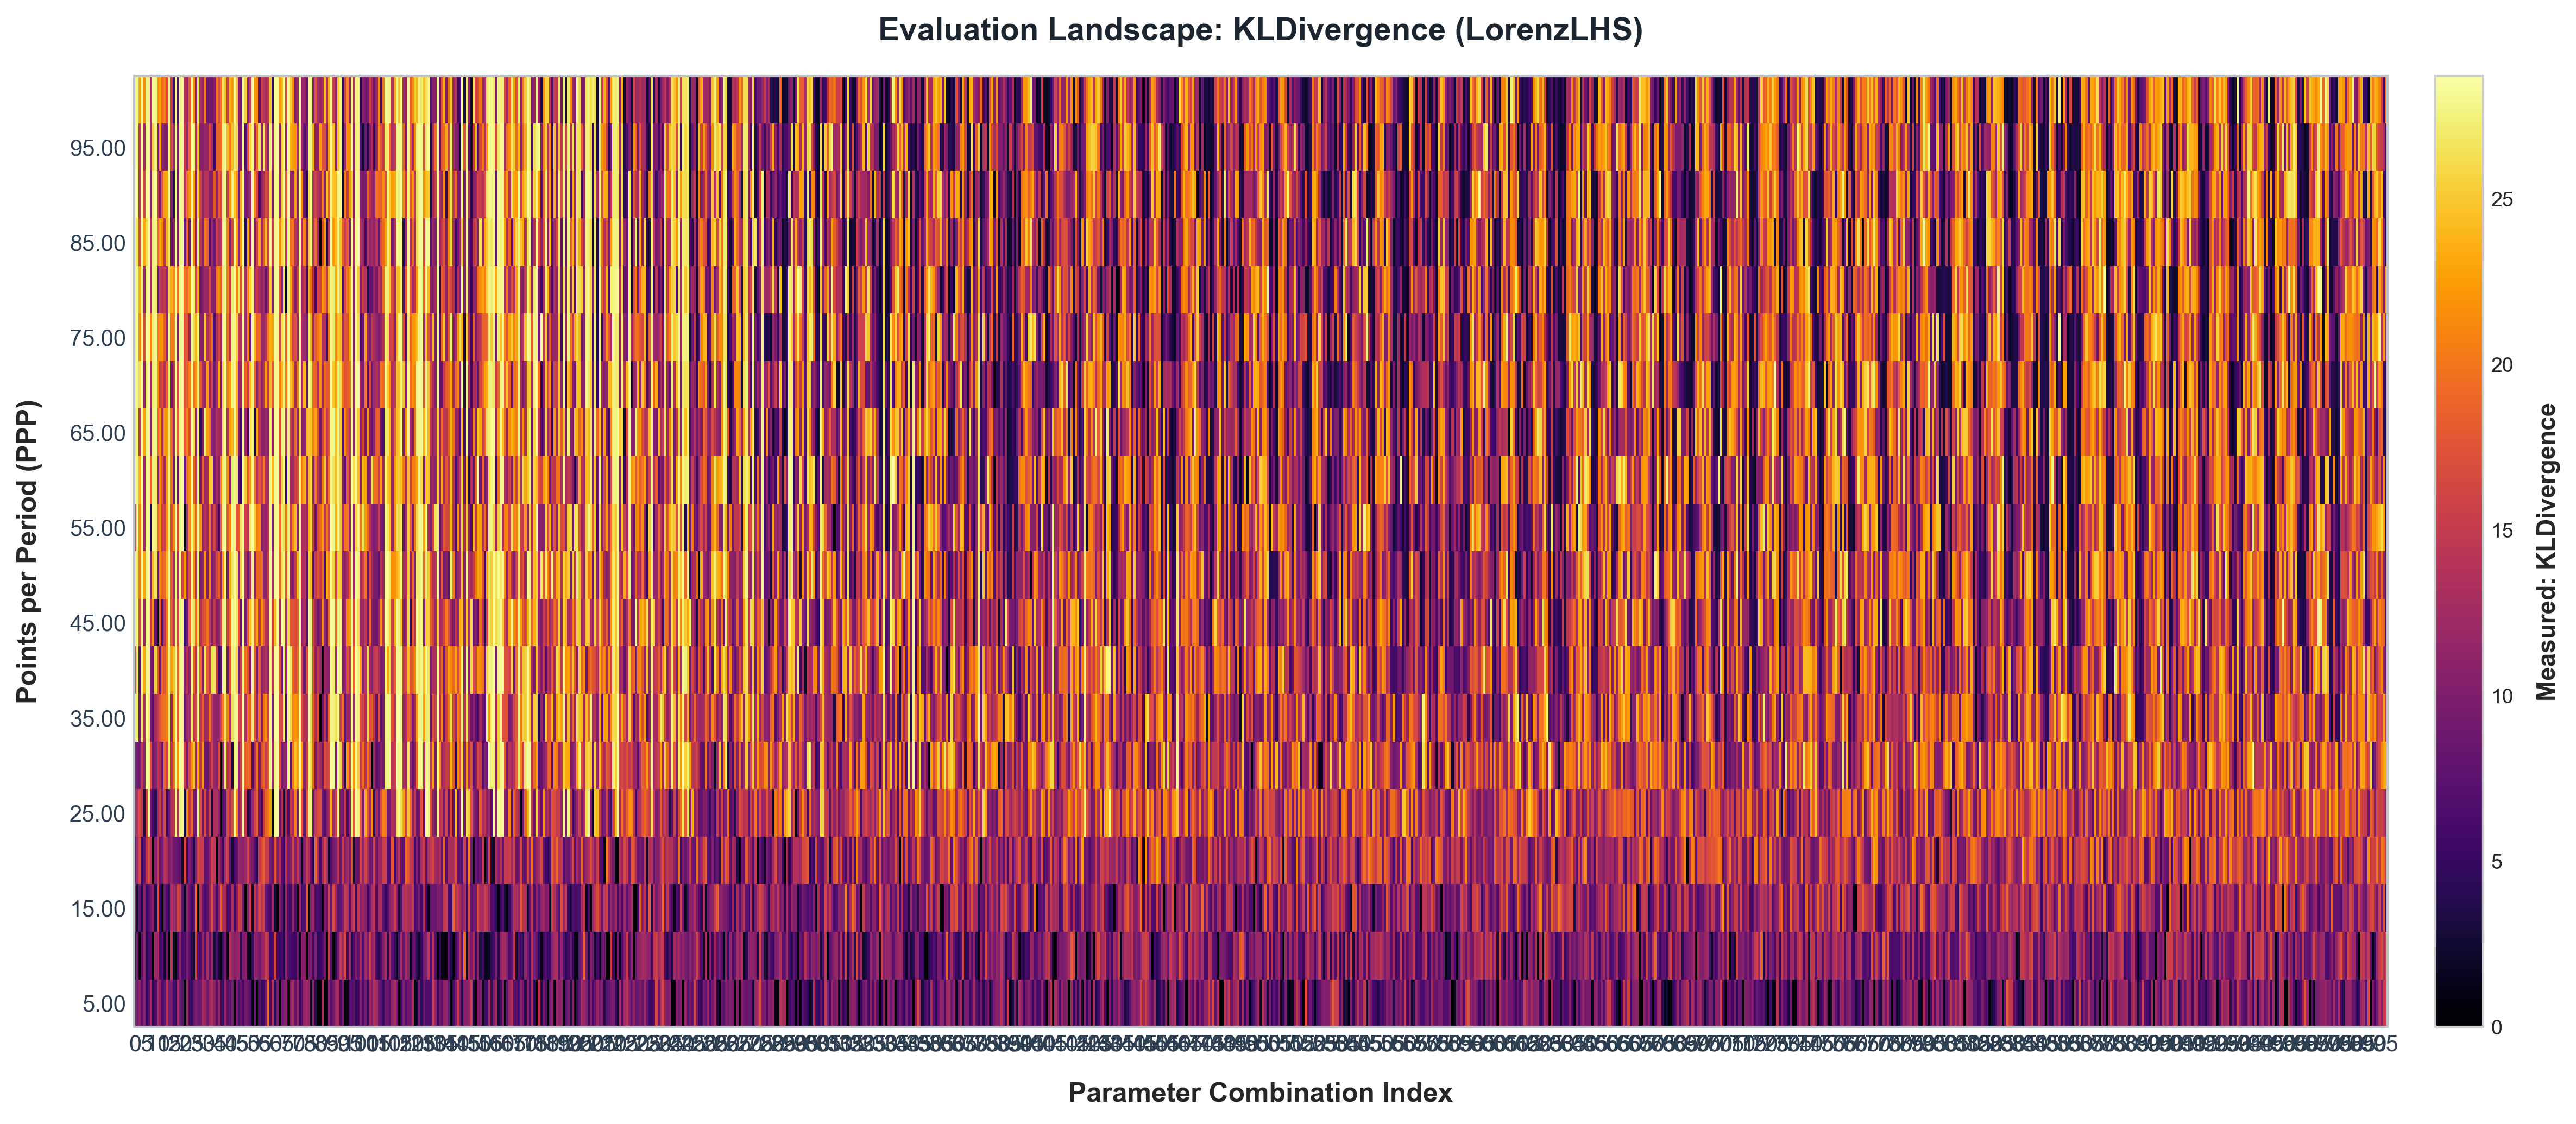
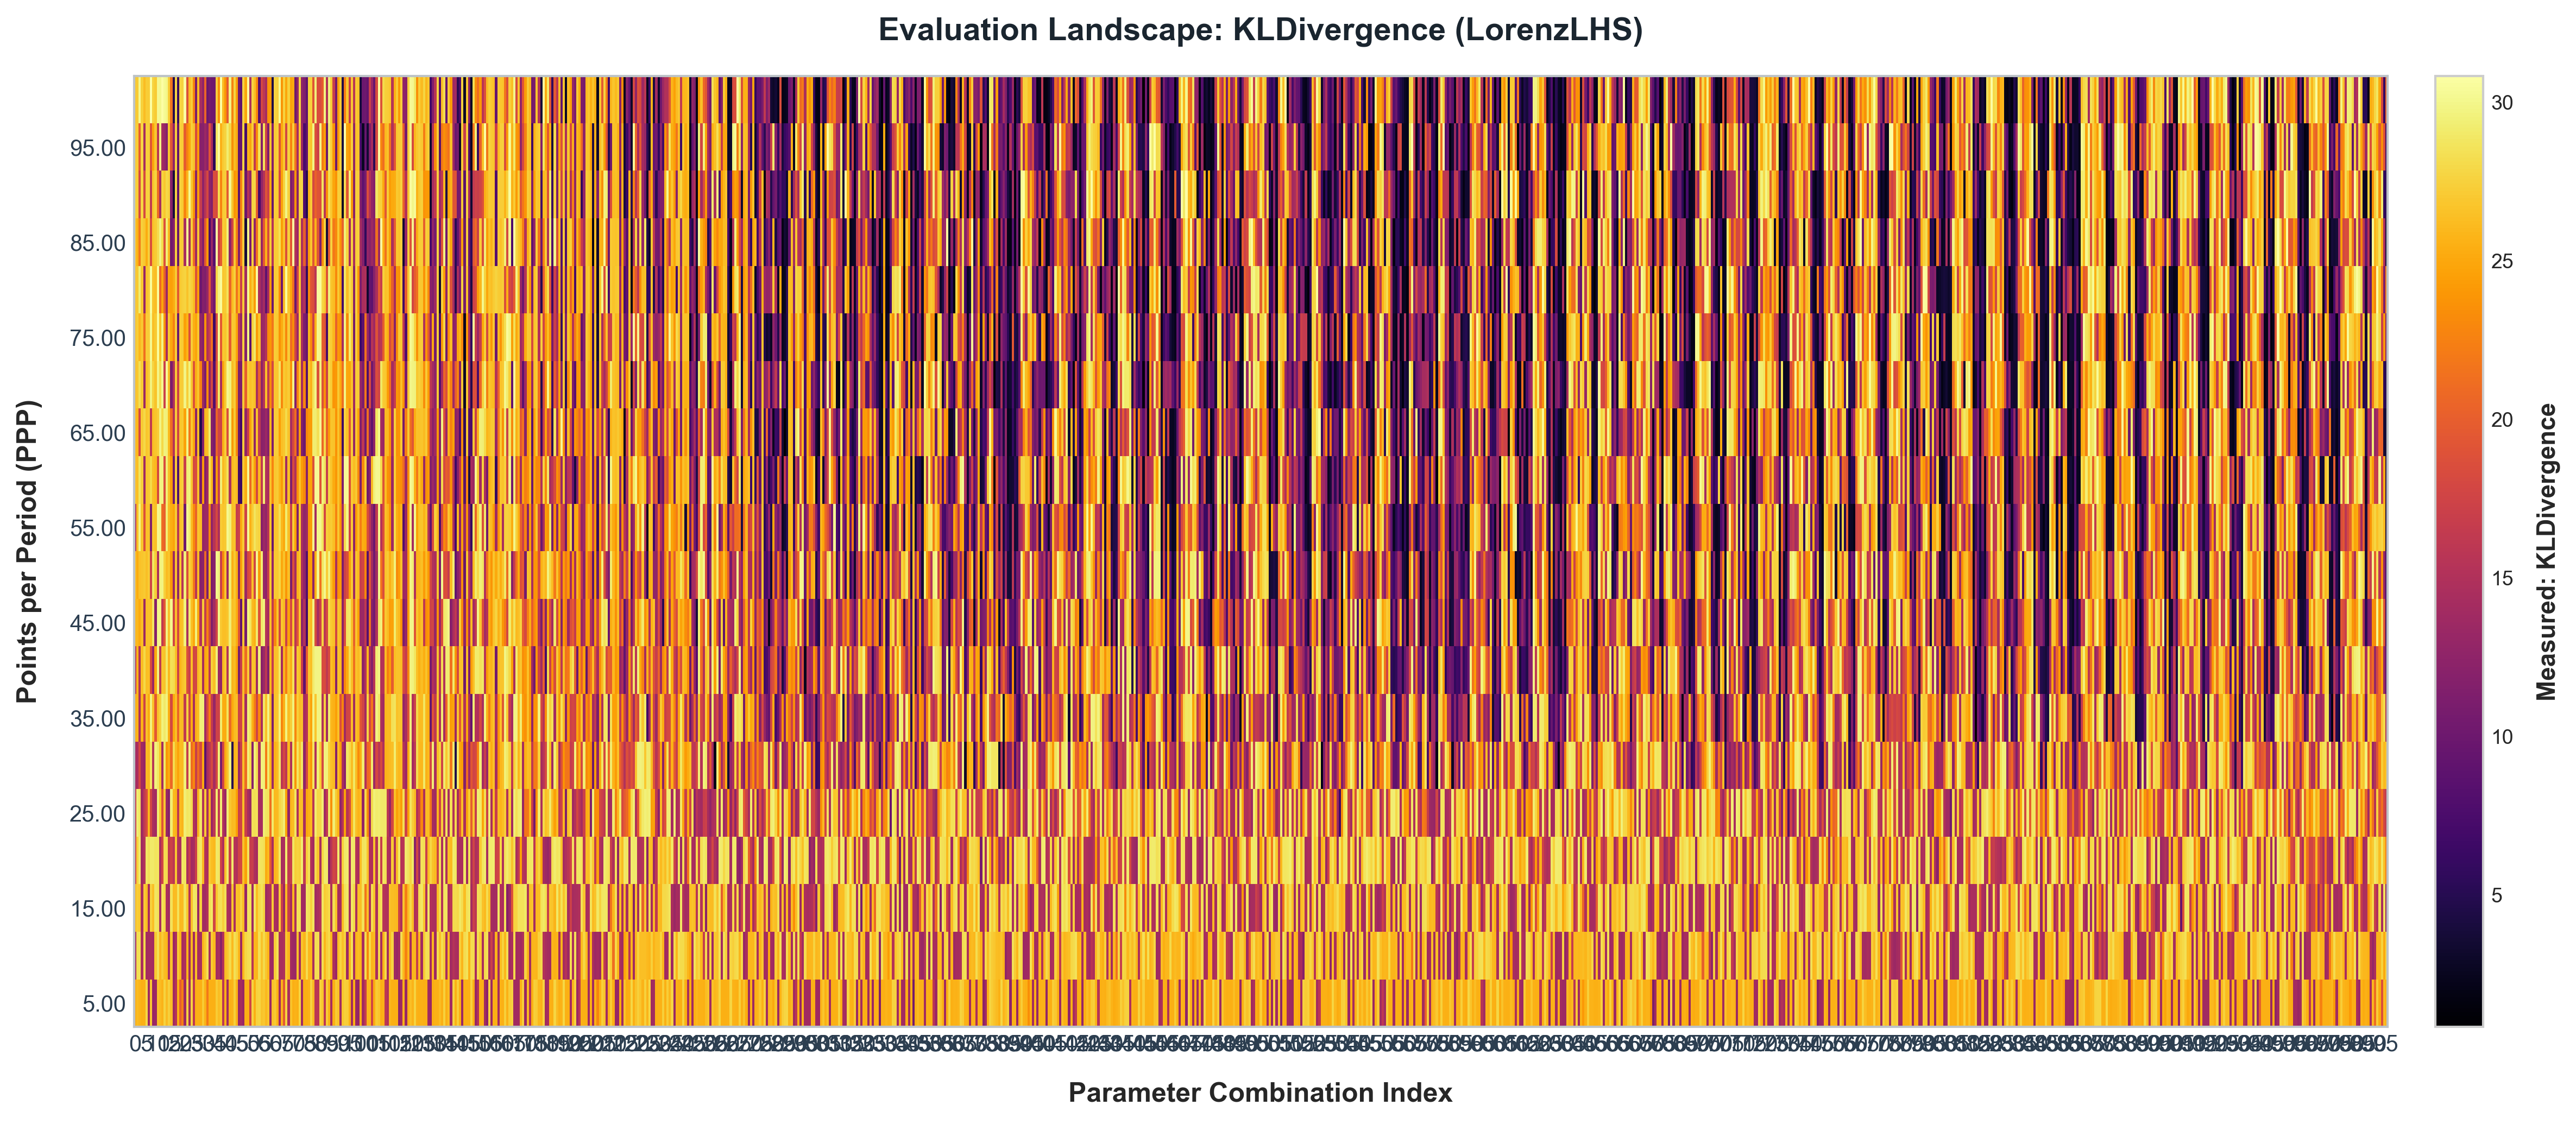
new color maps for better visibility

diff --git a/Examples/Input_Discretization/Heatmaps.py b/Examples/Input_Discretization/Heatmaps.py
@@ -27,6 +27,14 @@ logging.basicConfig(
 )
 logger = logging.getLogger(__name__)
 
+METRIC_CONFIGS = {
+    "LyapunovTime": {"cmap": "viridis",    "plotly_scale": "viridis"},
+    "KLDivergence": {"cmap": "viridis_r",  "plotly_scale": "viridis_r"},
+    "JSDivergence": {"cmap": "viridis_r",  "plotly_scale": "viridis_r"},
+    "RMSE":         {"cmap": "plasma_r",   "plotly_scale": "plasma_r"},
+    "PSD Errors":   {"cmap": "inferno",    "plotly_scale": "inferno"},
+    "Cos_Sim":      {"cmap": "RdBu_r",     "plotly_scale": "RdBu"}, # Plotly natively reverses differently
+}
 
 def make_param_combo(x: Any) -> Optional[tuple]:
     """
@@ -65,10 +73,10 @@ def _compute_entry_metrics(entry: dict, ppp: float, selection: int) -> Optional[
 
     try:
         lyap         = chaos_utils.lyapunov_time(truth=true_val, predictions=preds)
-        skl           = chaos_utils.symmetric_kl(true_val, preds, bins=20)  # bins=100 → 20: 125× less work in histogramdd
+        skl           = chaos_utils.symmetric_kl(true_val, preds)  # bins=100 → 20: 125× less work in histogramdd
         psd, cos_sim = chaos_utils.psd_error(true_val, preds)
         rmse         = utils.RMSE(true_val, preds)
-        jsdiv        = chaos_utils.js_divergence(true_val, preds, bins=20)
+        jsdiv        = chaos_utils.js_divergence(true_val, preds)
     except Exception as e:
         logger.warning(f"Metric computation failed: {e}")
         return None
@@ -231,9 +239,12 @@ def plot_and_save_heatmap(
 
     fig, ax = plt.subplots(figsize=(16, 7), layout="tight")
 
+    # Fetch configured colormap with a graceful fallback
+    metric_cfg = METRIC_CONFIGS.get(metric, {"cmap": "viridis"})
+
     cax = ax.imshow(
         heatmap_matrix,
-        cmap="inferno",
+        cmap=metric_cfg["cmap"],  # Dynamic assignment
         aspect="auto",
         origin="lower",
         interpolation="nearest",
@@ -308,13 +319,6 @@ def process_single_location(
             logger.warning(f"No data extracted from {input_path.name}")
             return
     # --------------------------------------------------------------------------
-    print(f"Total rows in df: {len(df)}")
-    print(f"Unique ppp values: {df['ppp'].nunique()}")
-    print(f"Unique param_combos: {df['param_combo'].nunique()}")
-    print(f"Rows per ppp (should be ~1500):")
-    print(df.groupby('ppp')['param_combo'].nunique())
-
-
     for metric in target_metrics:
         logger.info(f"Plotting: {metric}")
         plot_and_save_heatmap(df, metric, folder_name, output_path)
@@ -434,10 +438,12 @@ def plot_interactive_heatmap(
         row_hover = []
         for col_idx, combo in enumerate(param_combos):
             value = heatmap_matrix[row_idx, col_idx]
+            PointsPerPeriod = ppp
             params_str = "<br>".join(f"  {k}: {v}" for k, v in combo)
             cell_text = (
                 f"<b>{metric}:</b> {value:.6f}<br>"
-                f"<b>ppp:</b> {ppp:.2f}<br>"
+                f"<b>Parameter Index:</b> {col_idx}<br>"
+                f"<b>Points per Period:</b> {PointsPerPeriod:.2f}<br>"
                 f"<b>Parameters:</b><br>{params_str}"
             )
             row_hover.append(cell_text)
@@ -445,9 +451,10 @@ def plot_interactive_heatmap(
 
     # --- Log scale for RMSE / PSD --------------------------------------------
     plot_matrix = heatmap_matrix.copy()
-    colorscale  = "inferno"
+    metric_cfg = METRIC_CONFIGS.get(metric, {"plotly_scale": "viridis"})
+    colorscale = metric_cfg["plotly_scale"]
     colorbar_title = metric
-
+    
     if metric in ["PSD Errors", "RMSE"]:
         positive_mask = plot_matrix > 0
         if positive_mask.any():
@@ -496,7 +503,7 @@ def plot_interactive_heatmap(
         ),
     )
 
-    # Save as standalone HTML — no server or Python process needed to open it
+    # Save as HTML
     save_dir = output_base_dir / folder_name
     save_dir.mkdir(parents=True, exist_ok=True)
     output_file = save_dir / f"{metric.lower().replace(' ', '_')}_interactive.html"
@@ -512,4 +519,5 @@ if __name__ == "__main__":
     if len(sys.argv) > 1:
         process_single_location(sys.argv[1])
     else:
-        process_single_location("Examples/Input_Discretization/results/Chaotic/LorenzLHS", force_recompute=True)
+        process_single_location("Examples/Input_Discretization/results/Chaotic/HalvorsenLHS", force_recompute=True)
+        